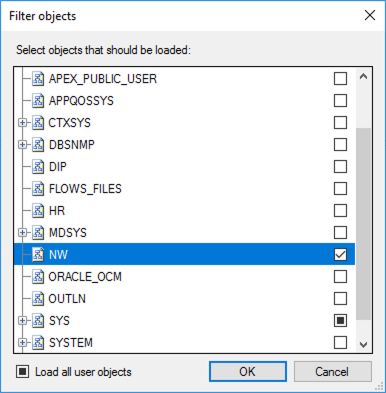
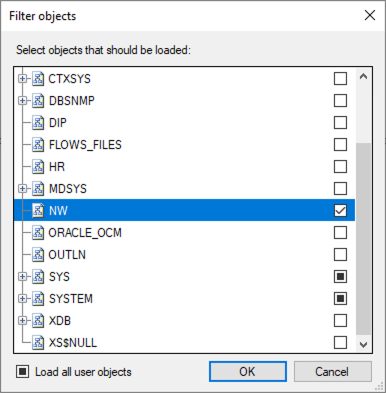
Exercise 5 updates

diff --git a/Hands-on lab/HOL step-by-step - Data Platform upgrade and migration.md b/Hands-on lab/HOL step-by-step - Data Platform upgrade and migration.md
@@ -1117,7 +1117,7 @@ In this exercise, you will migrate the Oracle database into the "on-premises" SQ
 
 6. Select **Connect**.
 
-7. In the Filter objects dialog, uncheck everything except the **NW** and **System** databases.
+7. In the Filter objects dialog, uncheck everything except the **NW**, **Sys**, and **System** databases.
 
     ![The NW database is highlighted and checked in the Filter objects dialog. The System database is checked, and all others are unchecked.](media/ssms-filter-objects.png "SSMA Filter objects")
 
@@ -1137,15 +1137,13 @@ In this exercise, you will migrate the Oracle database into the "on-premises" SQ
 
     - **Server name**: Enter the IP address of your SqlServer2017 VM. You can get this from the Azure portal by navigating to your VM's blade, and looking at the Essentials area.
 
-        ![The IP address of your SqlServer2017 VM is highlighted in the Essentials area of your VM's blade in the Azure portal.](./media/azure-sql-database-public-ip-address.png "Enter the IP address ")
+    ![The IP address of your SqlServer2017 VM is highlighted in the Essentials area of your VM's blade in the Azure portal.](./media/azure-sql-database-public-ip-address.png "Enter the IP address ")
 
     - **Server port**: Leave set to [default].
-
     - **Database**: Enter Northwind.
-
     - **Authentication**: Set to Windows Authentication.
 
-        ![The information above is entered in the Connect to SQL Server dialog box, and Connect is selected at the bottom.](./media/ssma-connect-to-sql-server.png "Specify the settings")
+    ![The information above is entered in the Connect to SQL Server dialog box, and Connect is selected at the bottom.](./media/ssma-connect-to-sql-server.png "Specify the settings")
 
 12. Select **Connect**.
 
@@ -1255,47 +1253,40 @@ In this exercise, you will migrate the Oracle database into the "on-premises" SQ
 
     - Under the **Northwind** database in the SQL Server Metadata Explorer in SSMA, expand **Assemblies**.
 
-        ![Three items are listed below Assemblies, which is highlighted below the Northwind database in SQL Server Metadata Explorer.](./media/ssma-sql-server-metadata-explorer-northwind-assemblies.png "Expand Assemblies")
+    ![Three items are listed below Assemblies, which is highlighted below the Northwind database in SQL Server Metadata Explorer.](./media/ssma-sql-server-metadata-explorer-northwind-assemblies.png "Expand Assemblies")
 
     - Right-click `SSMA4OracleSQLServerCollections.NET`, and select **Save as Script**.
 
-        ![Save as Script is highlighted in the submenu for SSMA4OracleSQLServerCollections.NET.](./media/ssma-sql-server-metadata-explorer-northwind-assemblies-save-as-script.png "Select Save as Script")
+    ![Save as Script is highlighted in the submenu for SSMA4OracleSQLServerCollections.NET.](./media/ssma-sql-server-metadata-explorer-northwind-assemblies-save-as-script.png "Select Save as Script")
 
     - Save the script to the local machine.
-
     - Now, you will need to use SSMS on your SqlServer2017 VM.
 
         - Open an RDP connection to your SqlServer2017 VM, if one is not already open.
-
         - Open SSMS 17.
-
         - Connect to SqlServer2017, by entering **SqlServer2017** into the Server name field, using Windows Authentication, and selecting **Connect**.
-
         - Expand **Databases**, right-click on **Northwind**, and select **New Query**.
-
         - Paste the following query into the new query window, but don't execute it until you complete the steps below:
 
-            ```sql
-            USE master;
-            GO
+        ```sql
+        USE master;
+        GO
 
-            DECLARE @clrName nvarchar(4000) = 'SSMA4OracleSQLServerCollections.NET'
-            DECLARE @asmBin varbinary(max) = [INSERT BINARY];
-            DECLARE @hash varbinary(64);
+        DECLARE @clrName nvarchar(4000) = 'SSMA4OracleSQLServerCollections.NET'
+        DECLARE @asmBin varbinary(max) = [INSERT BINARY];
+        DECLARE @hash varbinary(64);
 
-            SELECT @hash = HASHBYTES('SHA2_512', @asmBin);
+        SELECT @hash = HASHBYTES('SHA2_512', @asmBin);
 
-            EXEC sys.sp_add_trusted_assembly @hash = @hash, @description = @clrName;
-            ```
+        EXEC sys.sp_add_trusted_assembly @hash = @hash, @description = @clrName;
+        ```
 
     - Now, return to your Lab VM, and open the saved `SSMA4OracleSQLServerCollections.NET.sql` file from the desktop with Notepad.exe.
-
     - Within the SQL file, locate the line that begins with `CREATE ASSEMBLY`, then locate the word `FROM`. Copy the binary string that appears after `FROM`. This value will span all the way down to the line containing the text `WITH PERMISSION_SET = SAFE`. Be sure not to include any whitespace at the end of the binary value.
 
         ![The binary string that appears after FROM is highlighted within the SQL file.](./media/assembly-binary-value.png "Copy the binary string")
 
     - Now, return to SSMS on your SqlServer2017 VM, and replace `INSERT BINARY` with the copied binary value. The line should end with ";" and there should be no whitespace before the ";".
-
     - Execute the query in SSMS.
 
 45. Repeat step 44, this time for the assembly `SSMA4OracleSQLServerExtensions.NET`. Make sure to replace the `@clrName` variable in the script with the value "SSMA4OracleSQLServerExtensions.NET".
